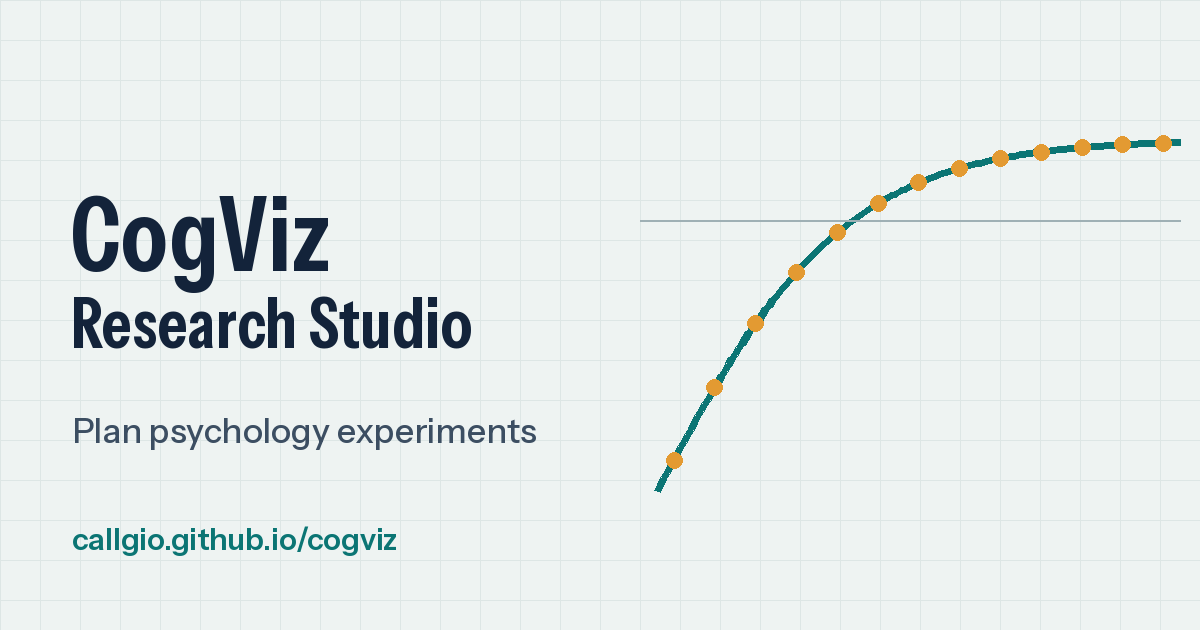
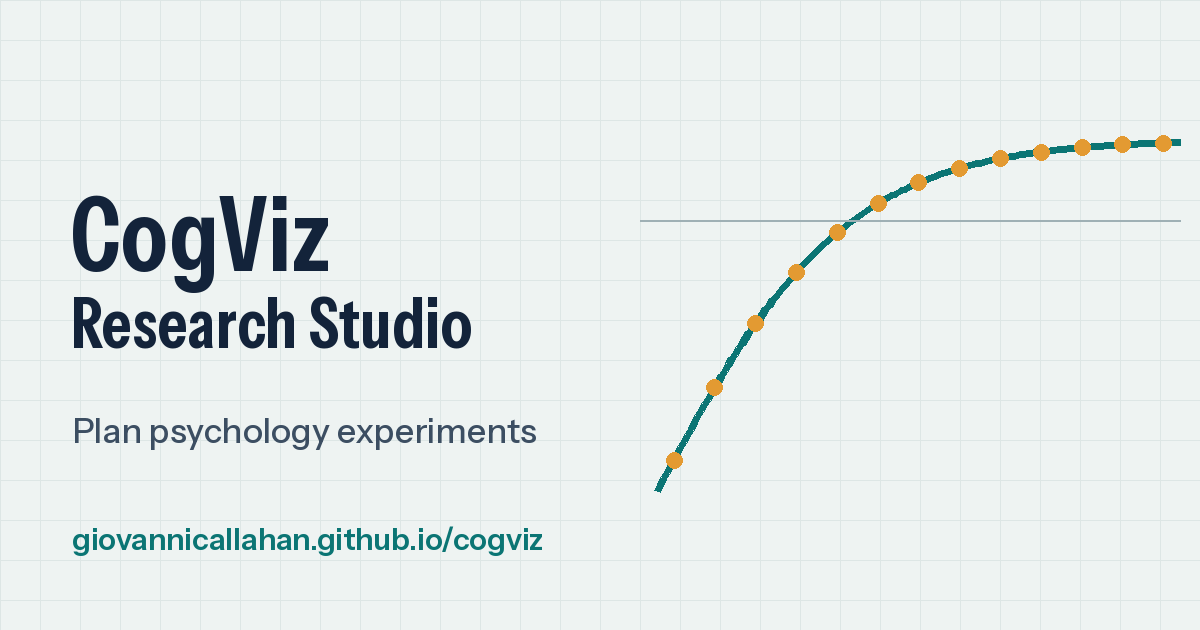
Move to giovannicallahan.github.io: update links, previews and QR codes
Claude-Session: https://claude.ai/code/session_01246YmzEWtxj8Yhw6KJvcPP

Changed region(s): [[0.0617, 0.8444, 0.4625, 0.8746]]

diff --git a/projects/neuroapp.html b/projects/neuroapp.html
@@ -7,12 +7,12 @@
 <meta name="referrer" content="strict-origin-when-cross-origin">
 <title>NeuroApp — explore the human brain in 3D</title>
 <meta name="description" content="A free 3D brain atlas that runs in your browser: spin and slice the brain, tap any of 300+ structures to learn what it does, and quiz yourself with spaced review.">
-<link rel="canonical" href="https://callgio.github.io/projects/neuroapp.html">
+<link rel="canonical" href="https://giovannicallahan.github.io/projects/neuroapp.html">
 <meta property="og:type" content="website">
 <meta property="og:title" content="NeuroApp — explore the human brain in 3D">
 <meta property="og:description" content="A free 3D brain atlas that runs in your browser: spin and slice the brain, tap any of 300+ structures to learn what it does, and quiz yourself with spaced review.">
-<meta property="og:url" content="https://callgio.github.io/projects/neuroapp.html">
-<meta property="og:image" content="https://callgio.github.io/img/og-neuroapp.png">
+<meta property="og:url" content="https://giovannicallahan.github.io/projects/neuroapp.html">
+<meta property="og:image" content="https://giovannicallahan.github.io/img/og-neuroapp.png">
 <meta name="twitter:card" content="summary_large_image">
 <meta name="theme-color" content="#10153a">
 <link rel="icon" href="/img/favicon.svg" type="image/svg+xml">
@@ -44,8 +44,8 @@
       <p class="lede">Explore the human brain in 3D, right in your browser. Tap a structure to see what it
       does and what it connects to, then quiz yourself until the names stick.</p>
       <div class="actions">
-        <a class="btn btn-primary" href="https://callgio.github.io/neuroapp/">Open NeuroApp</a>
-        <a class="btn btn-ghost" href="https://callgio.github.io/neuroapp/atlas-viewer.html?start=tour">Take the 5-minute tour</a>
+        <a class="btn btn-primary" href="https://giovannicallahan.github.io/neuroapp/">Open NeuroApp</a>
+        <a class="btn btn-ghost" href="https://giovannicallahan.github.io/neuroapp/atlas-viewer.html?start=tour">Take the 5-minute tour</a>
       </div>
       <p class="note">Free. No account. Works on a phone.</p>
     </div>
@@ -89,7 +89,7 @@
       <li><strong>Cited lessons</strong><span>Every point in a lesson links to its source, mostly peer-reviewed StatPearls chapters and OpenStax textbooks.</span></li>
       <li><strong>Learning science</strong><span>Quizzes use retrieval practice and a Leitner spaced-review schedule, and they ask how confident you were.</span></li>
       <li><strong>Private by design</strong><span>No accounts, cookies or trackers. Your progress stays in your own browser.</span></li>
-      <li><strong>Open source</strong><span>Built with AI assistance. The source is <a href="https://github.com/callGio/neuroapp" rel="noopener noreferrer" target="_blank">open on GitHub</a>.</span></li>
+      <li><strong>Open source</strong><span>Built with AI assistance. The source is <a href="https://github.com/giovannicallahan/neuroapp" rel="noopener noreferrer" target="_blank">open on GitHub</a>.</span></li>
     </ul>
   </div>
 </section>
@@ -101,7 +101,7 @@
       <img src="/img/qr-brain.svg" width="132" height="132" alt="QR code that opens NeuroApp">
       <div>
         <p>Scan the code with a phone camera, or share the short link:</p>
-        <p><code>callgio.github.io/brain</code> <button class="btn btn-ghost copy-btn" data-copy="https://callgio.github.io/brain/">Copy link</button></p>
+        <p><code>giovannicallahan.github.io/brain</code> <button class="btn btn-ghost copy-btn" data-copy="https://giovannicallahan.github.io/brain/">Copy link</button></p>
       </div>
     </div>
   </div>
@@ -112,7 +112,7 @@
   <div class="wrap">
     <p>© 2026 Giovanni Callahan. This site uses no cookies or trackers.</p>
     <ul>
-      <li><a href="https://github.com/callGio" rel="noopener noreferrer" target="_blank">GitHub</a></li>
+      <li><a href="https://github.com/giovannicallahan" rel="noopener noreferrer" target="_blank">GitHub</a></li>
       <li><a href="/contact.html">Contact</a></li>
       <li><a href="/feedback.html">Feedback</a></li>
     </ul>

diff --git a/projects/cogviz.html b/projects/cogviz.html
@@ -7,12 +7,12 @@
 <meta name="referrer" content="strict-origin-when-cross-origin">
 <title>CogViz Research Studio — plan psychology experiments</title>
 <meta name="description" content="A free browser-based planner for psychology experiments: compare designs, plan analyses, simulate what a prediction implies and export a preregistration draft.">
-<link rel="canonical" href="https://callgio.github.io/projects/cogviz.html">
+<link rel="canonical" href="https://giovannicallahan.github.io/projects/cogviz.html">
 <meta property="og:type" content="website">
 <meta property="og:title" content="CogViz Research Studio — plan psychology experiments">
 <meta property="og:description" content="A free browser-based planner for psychology experiments: compare designs, plan analyses, simulate what a prediction implies and export a preregistration draft.">
-<meta property="og:url" content="https://callgio.github.io/projects/cogviz.html">
-<meta property="og:image" content="https://callgio.github.io/img/og-cogviz.png">
+<meta property="og:url" content="https://giovannicallahan.github.io/projects/cogviz.html">
+<meta property="og:image" content="https://giovannicallahan.github.io/img/og-cogviz.png">
 <meta name="twitter:card" content="summary_large_image">
 <meta name="theme-color" content="#eef3f2">
 <link rel="icon" href="/img/favicon.svg" type="image/svg+xml">
@@ -93,7 +93,7 @@
       <img src="/img/qr-cogviz.svg" width="132" height="132" alt="QR code that opens CogViz Research Studio">
       <div>
         <p>Scan the code with a phone camera, or share the short link:</p>
-        <p><code>callgio.github.io/cogviz</code> <button class="btn btn-ghost copy-btn" data-copy="https://callgio.github.io/cogviz/">Copy link</button></p>
+        <p><code>giovannicallahan.github.io/cogviz</code> <button class="btn btn-ghost copy-btn" data-copy="https://giovannicallahan.github.io/cogviz/">Copy link</button></p>
       </div>
     </div>
   </div>
@@ -104,7 +104,7 @@
   <div class="wrap">
     <p>© 2026 Giovanni Callahan. This site uses no cookies or trackers.</p>
     <ul>
-      <li><a href="https://github.com/callGio" rel="noopener noreferrer" target="_blank">GitHub</a></li>
+      <li><a href="https://github.com/giovannicallahan" rel="noopener noreferrer" target="_blank">GitHub</a></li>
       <li><a href="/contact.html">Contact</a></li>
       <li><a href="/feedback.html">Feedback</a></li>
     </ul>

diff --git a/index.html b/index.html
@@ -7,12 +7,12 @@
 <meta name="referrer" content="strict-origin-when-cross-origin">
 <title>Giovanni Callahan — psychology, decisions and the brain</title>
 <meta name="description" content="Psychology student at Arizona State University and Marine Corps veteran. I study how people decide where to spend effort, and I build free tools for learning about the brain and planning experiments.">
-<link rel="canonical" href="https://callgio.github.io/">
+<link rel="canonical" href="https://giovannicallahan.github.io/">
 <meta property="og:type" content="website">
 <meta property="og:title" content="Giovanni Callahan — psychology, decisions and the brain">
 <meta property="og:description" content="Psychology student at Arizona State University and Marine Corps veteran. I study how people decide where to spend effort, and I build free tools for learning about the brain and planning experiments.">
-<meta property="og:url" content="https://callgio.github.io/">
-<meta property="og:image" content="https://callgio.github.io/img/og-home.png">
+<meta property="og:url" content="https://giovannicallahan.github.io/">
+<meta property="og:image" content="https://giovannicallahan.github.io/img/og-home.png">
 <meta name="twitter:card" content="summary_large_image">
 <meta name="theme-color" content="#eef3f2">
 <link rel="icon" href="/img/favicon.svg" type="image/svg+xml">
@@ -100,7 +100,7 @@
           <p>A 3D atlas of the human brain. Spin it, slice it and tap any of 300+ structures to see what it
           does, then quiz yourself until the names stick.</p>
           <div class="actions">
-            <a class="btn btn-primary" href="https://callgio.github.io/neuroapp/">Open NeuroApp</a>
+            <a class="btn btn-primary" href="https://giovannicallahan.github.io/neuroapp/">Open NeuroApp</a>
             <a class="btn btn-ghost" href="/projects/neuroapp.html">How it works</a>
           </div>
         </div>
@@ -129,7 +129,7 @@
   <div class="wrap">
     <p>© 2026 Giovanni Callahan. This site uses no cookies or trackers.</p>
     <ul>
-      <li><a href="https://github.com/callGio" rel="noopener noreferrer" target="_blank">GitHub</a></li>
+      <li><a href="https://github.com/giovannicallahan" rel="noopener noreferrer" target="_blank">GitHub</a></li>
       <li><a href="/contact.html">Contact</a></li>
       <li><a href="/feedback.html">Feedback</a></li>
     </ul>

diff --git a/contact.html b/contact.html
@@ -7,12 +7,12 @@
 <meta name="referrer" content="strict-origin-when-cross-origin">
 <title>Contact — Giovanni Callahan</title>
 <meta name="description" content="Send Giovanni Callahan a message about research, opportunities, his apps, or just to say hello.">
-<link rel="canonical" href="https://callgio.github.io/contact.html">
+<link rel="canonical" href="https://giovannicallahan.github.io/contact.html">
 <meta property="og:type" content="website">
 <meta property="og:title" content="Contact — Giovanni Callahan">
 <meta property="og:description" content="Send Giovanni Callahan a message about research, opportunities, his apps, or just to say hello.">
-<meta property="og:url" content="https://callgio.github.io/contact.html">
-<meta property="og:image" content="https://callgio.github.io/img/og-home.png">
+<meta property="og:url" content="https://giovannicallahan.github.io/contact.html">
+<meta property="og:image" content="https://giovannicallahan.github.io/img/og-home.png">
 <meta name="twitter:card" content="summary_large_image">
 <meta name="theme-color" content="#eef3f2">
 <link rel="icon" href="/img/favicon.svg" type="image/svg+xml">
@@ -65,7 +65,7 @@
     <aside class="aside-box">
       <h2 class="h-small">Other ways</h2>
       <ul>
-        <li>Code and projects: <a href="https://github.com/callGio" rel="noopener noreferrer" target="_blank">GitHub</a></li>
+        <li>Code and projects: <a href="https://github.com/giovannicallahan" rel="noopener noreferrer" target="_blank">GitHub</a></li>
         <li>Found a bug or have an idea for an app? Use the <a href="/feedback.html">feedback form</a>.</li>
       </ul>
       <p class="note">Messages go to my inbox through Formspree, a form service. Your address is used only so I
@@ -79,7 +79,7 @@
   <div class="wrap">
     <p>© 2026 Giovanni Callahan. This site uses no cookies or trackers.</p>
     <ul>
-      <li><a href="https://github.com/callGio" rel="noopener noreferrer" target="_blank">GitHub</a></li>
+      <li><a href="https://github.com/giovannicallahan" rel="noopener noreferrer" target="_blank">GitHub</a></li>
       <li><a href="/contact.html">Contact</a></li>
       <li><a href="/feedback.html">Feedback</a></li>
     </ul>

diff --git a/404.html b/404.html
@@ -7,12 +7,12 @@
 <meta name="referrer" content="strict-origin-when-cross-origin">
 <title>Page not found — Giovanni Callahan</title>
 <meta name="description" content="This page does not exist.">
-<link rel="canonical" href="https://callgio.github.io/404.html">
+<link rel="canonical" href="https://giovannicallahan.github.io/404.html">
 <meta property="og:type" content="website">
 <meta property="og:title" content="Page not found — Giovanni Callahan">
 <meta property="og:description" content="This page does not exist.">
-<meta property="og:url" content="https://callgio.github.io/404.html">
-<meta property="og:image" content="https://callgio.github.io/img/og-home.png">
+<meta property="og:url" content="https://giovannicallahan.github.io/404.html">
+<meta property="og:image" content="https://giovannicallahan.github.io/img/og-home.png">
 <meta name="twitter:card" content="summary_large_image">
 <meta name="theme-color" content="#eef3f2">
 <link rel="icon" href="/img/favicon.svg" type="image/svg+xml">
@@ -43,7 +43,7 @@
     <p class="lede">The link may be mistyped or out of date. These are the places you can go from here:</p>
     <div class="actions">
       <a class="btn btn-primary" href="/">Go to the home page</a>
-      <a class="btn btn-ghost" href="https://callgio.github.io/neuroapp/">Open NeuroApp</a>
+      <a class="btn btn-ghost" href="https://giovannicallahan.github.io/neuroapp/">Open NeuroApp</a>
       <a class="btn btn-ghost" href="/projects/cogviz.html">About CogViz</a>
     </div>
   </div>
@@ -54,7 +54,7 @@
   <div class="wrap">
     <p>© 2026 Giovanni Callahan. This site uses no cookies or trackers.</p>
     <ul>
-      <li><a href="https://github.com/callGio" rel="noopener noreferrer" target="_blank">GitHub</a></li>
+      <li><a href="https://github.com/giovannicallahan" rel="noopener noreferrer" target="_blank">GitHub</a></li>
       <li><a href="/contact.html">Contact</a></li>
       <li><a href="/feedback.html">Feedback</a></li>
     </ul>

diff --git a/feedback.html b/feedback.html
@@ -7,12 +7,12 @@
 <meta name="referrer" content="strict-origin-when-cross-origin">
 <title>Feedback — Giovanni Callahan</title>
 <meta name="description" content="Tell Giovanni Callahan what works and what gets in your way in NeuroApp, CogViz or this website.">
-<link rel="canonical" href="https://callgio.github.io/feedback.html">
+<link rel="canonical" href="https://giovannicallahan.github.io/feedback.html">
 <meta property="og:type" content="website">
 <meta property="og:title" content="Feedback — Giovanni Callahan">
 <meta property="og:description" content="Tell Giovanni Callahan what works and what gets in your way in NeuroApp, CogViz or this website.">
-<meta property="og:url" content="https://callgio.github.io/feedback.html">
-<meta property="og:image" content="https://callgio.github.io/img/og-home.png">
+<meta property="og:url" content="https://giovannicallahan.github.io/feedback.html">
+<meta property="og:image" content="https://giovannicallahan.github.io/img/og-home.png">
 <meta name="twitter:card" content="summary_large_image">
 <meta name="theme-color" content="#eef3f2">
 <link rel="icon" href="/img/favicon.svg" type="image/svg+xml">
@@ -88,7 +88,7 @@
   <div class="wrap">
     <p>© 2026 Giovanni Callahan. This site uses no cookies or trackers.</p>
     <ul>
-      <li><a href="https://github.com/callGio" rel="noopener noreferrer" target="_blank">GitHub</a></li>
+      <li><a href="https://github.com/giovannicallahan" rel="noopener noreferrer" target="_blank">GitHub</a></li>
       <li><a href="/contact.html">Contact</a></li>
       <li><a href="/feedback.html">Feedback</a></li>
     </ul>

diff --git a/brain/index.html b/brain/index.html
@@ -2,9 +2,9 @@
 <html lang="en"><head><meta charset="utf-8">
 <meta http-equiv="Content-Security-Policy" content="default-src 'none'; style-src 'unsafe-inline'; base-uri 'none'">
 <meta name="viewport" content="width=device-width, initial-scale=1">
-<meta http-equiv="refresh" content="0; url=https://callgio.github.io/neuroapp/">
-<link rel="canonical" href="https://callgio.github.io/neuroapp/">
+<meta http-equiv="refresh" content="0; url=https://giovannicallahan.github.io/neuroapp/">
+<link rel="canonical" href="https://giovannicallahan.github.io/neuroapp/">
 <title>Opening NeuroApp</title></head>
 <body style="font-family:system-ui,sans-serif;background:#eef3f2;color:#13233a;padding:2rem">
-<p>Opening NeuroApp. If nothing happens, <a href="https://callgio.github.io/neuroapp/">open NeuroApp</a>.</p>
+<p>Opening NeuroApp. If nothing happens, <a href="https://giovannicallahan.github.io/neuroapp/">open NeuroApp</a>.</p>
 </body></html>

diff --git a/build.py b/build.py
@@ -1,5 +1,5 @@
 #!/usr/bin/env python3
-"""Build the static pages of callgio.github.io from one shared header and footer.
+"""Build the static pages of giovannicallahan.github.io from one shared header and footer.
 
 Run from the repository root:  python3 build.py
 Edit the copy in this file, then re-run; the .html files are generated.
@@ -7,10 +7,10 @@ Edit the copy in this file, then re-run; the .html files are generated.
 from pathlib import Path
 
 ROOT = Path(__file__).parent
-SITE = "https://callgio.github.io"
-NEUROAPP = "https://callgio.github.io/neuroapp/"
+SITE = "https://giovannicallahan.github.io"
+NEUROAPP = "https://giovannicallahan.github.io/neuroapp/"
 COGVIZ = "https://cogviz-research-studio.streamlit.app/"
-GITHUB = "https://github.com/callGio"
+GITHUB = "https://github.com/giovannicallahan"
 
 CSP = ("default-src 'self'; img-src 'self' data:; style-src 'self'; script-src 'self'; "
        "font-src 'self'; connect-src https://formspree.io; form-action https://formspree.io; "
@@ -235,7 +235,7 @@ page("projects/neuroapp.html", "NeuroApp — explore the human brain in 3D",
       <li><strong>Cited lessons</strong><span>Every point in a lesson links to its source, mostly peer-reviewed StatPearls chapters and OpenStax textbooks.</span></li>
       <li><strong>Learning science</strong><span>Quizzes use retrieval practice and a Leitner spaced-review schedule, and they ask how confident you were.</span></li>
       <li><strong>Private by design</strong><span>No accounts, cookies or trackers. Your progress stays in your own browser.</span></li>
-      <li><strong>Open source</strong><span>Built with AI assistance. The source is <a href="https://github.com/callGio/neuroapp" {EXT}>open on GitHub</a>.</span></li>
+      <li><strong>Open source</strong><span>Built with AI assistance. The source is <a href="https://github.com/giovannicallahan/neuroapp" {EXT}>open on GitHub</a>.</span></li>
     </ul>
   </div>
 </section>
@@ -247,7 +247,7 @@ page("projects/neuroapp.html", "NeuroApp — explore the human brain in 3D",
       <img src="/img/qr-brain.svg" width="132" height="132" alt="QR code that opens NeuroApp">
       <div>
         <p>Scan the code with a phone camera, or share the short link:</p>
-        <p><code>callgio.github.io/brain</code> <button class="btn btn-ghost copy-btn" data-copy="https://callgio.github.io/brain/">Copy link</button></p>
+        <p><code>giovannicallahan.github.io/brain</code> <button class="btn btn-ghost copy-btn" data-copy="https://giovannicallahan.github.io/brain/">Copy link</button></p>
       </div>
     </div>
   </div>
@@ -314,7 +314,7 @@ page("projects/cogviz.html", "CogViz Research Studio — plan psychology experim
       <img src="/img/qr-cogviz.svg" width="132" height="132" alt="QR code that opens CogViz Research Studio">
       <div>
         <p>Scan the code with a phone camera, or share the short link:</p>
-        <p><code>callgio.github.io/cogviz</code> <button class="btn btn-ghost copy-btn" data-copy="https://callgio.github.io/cogviz/">Copy link</button></p>
+        <p><code>giovannicallahan.github.io/cogviz</code> <button class="btn btn-ghost copy-btn" data-copy="https://giovannicallahan.github.io/cogviz/">Copy link</button></p>
       </div>
     </div>
   </div>
@@ -353,7 +353,7 @@ page("contact.html", "Contact — Giovanni Callahan",
     <aside class="aside-box">
       <h2 class="h-small">Other ways</h2>
       <ul>
-        <li>Code and projects: <a href="https://github.com/callGio" rel="noopener noreferrer" target="_blank">GitHub</a></li>
+        <li>Code and projects: <a href="https://github.com/giovannicallahan" rel="noopener noreferrer" target="_blank">GitHub</a></li>
         <li>Found a bug or have an idea for an app? Use the <a href="/feedback.html">feedback form</a>.</li>
       </ul>
       <p class="note">Messages go to my inbox through Formspree, a form service. Your address is used only so I
@@ -422,7 +422,7 @@ page("404.html", "Page not found — Giovanni Callahan", "This page does not exi
     <p class="lede">The link may be mistyped or out of date. These are the places you can go from here:</p>
     <div class="actions">
       <a class="btn btn-primary" href="/">Go to the home page</a>
-      <a class="btn btn-ghost" href="https://callgio.github.io/neuroapp/">Open NeuroApp</a>
+      <a class="btn btn-ghost" href="https://giovannicallahan.github.io/neuroapp/">Open NeuroApp</a>
       <a class="btn btn-ghost" href="/projects/cogviz.html">About CogViz</a>
     </div>
   </div>

diff --git a/README.md b/README.md
@@ -1,10 +1,10 @@
-# callgio.github.io
+# giovannicallahan.github.io
 
 Personal website of Giovanni Callahan: who I am, my research, and my two apps,
-[NeuroApp](https://callgio.github.io/neuroapp/) and
+[NeuroApp](https://giovannicallahan.github.io/neuroapp/) and
 [CogViz Research Studio](https://cogviz-research-studio.streamlit.app/).
 
-Live at **https://callgio.github.io**. Short links: `/brain` opens NeuroApp, `/cogviz` opens CogViz.
+Live at **https://giovannicallahan.github.io**. Short links: `/brain` opens NeuroApp, `/cogviz` opens CogViz.
 
 ## Editing
 
